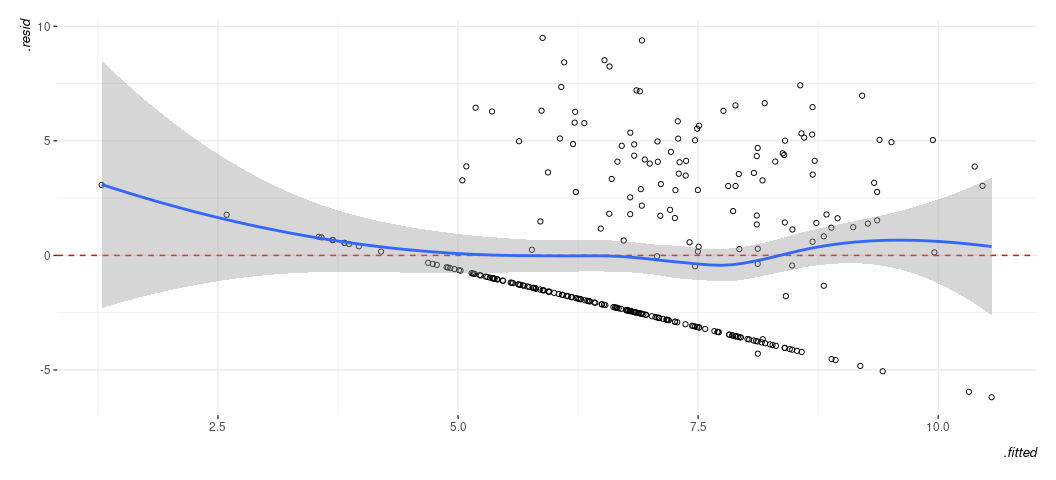
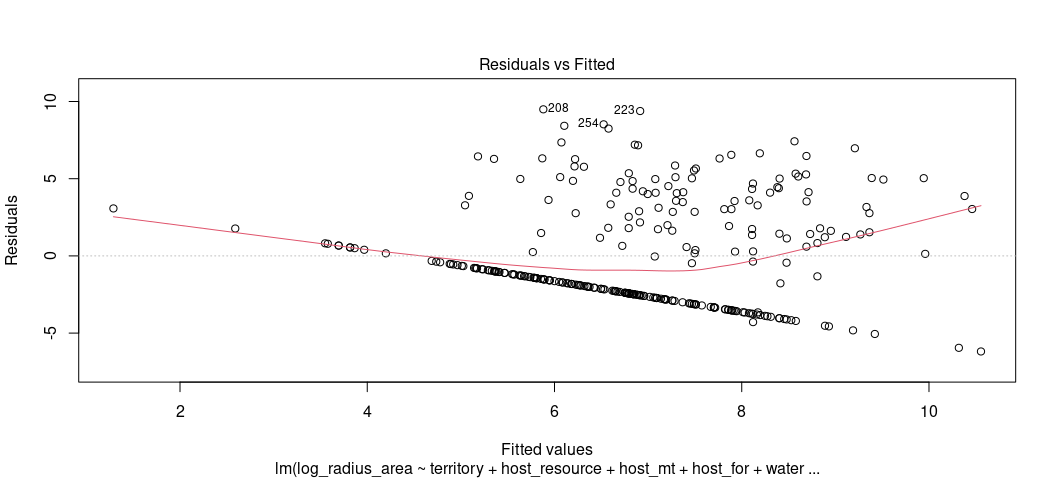
add

diff --git a/scripts/linear-models-again.md b/scripts/linear-models-again.md
@@ -31,15 +31,14 @@ output:
 library(tidyverse)
 #> ── Attaching core tidyverse packages ──────────────────────── tidyverse 2.0.0 ──
 #> ✔ dplyr     1.1.4     ✔ readr     2.1.4
-#> ✔ forcats   1.0.0     ✔ stringr   1.5.0
-#> ✔ ggplot2   4.0.0     ✔ tibble    3.3.0
-#> ✔ lubridate 1.9.4     ✔ tidyr     1.3.0
+#> ✔ forcats   1.0.1     ✔ stringr   1.6.0
+#> ✔ ggplot2   4.0.0     ✔ tibble    3.3.1
+#> ✔ lubridate 1.9.2     ✔ tidyr     1.3.0
 #> ✔ purrr     1.1.0     
 #> ── Conflicts ────────────────────────────────────────── tidyverse_conflicts() ──
 #> ✖ dplyr::filter() masks stats::filter()
 #> ✖ dplyr::lag()    masks stats::lag()
 #> ℹ Use the conflicted package (<http://conflicted.r-lib.org/>) to force all conflicts to become errors
-library(stevethemes)
 library(stevemisc)
 #> 
 #> Attaching package: 'stevemisc'
@@ -51,6 +50,9 @@ library(stevemisc)
 #> The following object is masked from 'package:dplyr':
 #> 
 #>     tbl_df
+library(stevethemes) # Optional; gonna use it anyway
+
+theme_set(theme_steve(style = 'generic'))
 ```
 
 ## Load the data
@@ -270,6 +272,17 @@ exp(0.025871)-1       # relative change
 #> [1] 2.5871
 ```
 
+Here’s where the territory coefficient’s larger value misleads a bit.
+
+``` r
+exp(1.624430)-1       # relative change
+#> [1] 4.075525
+(exp(1.624430)-1)*100 # percentage change
+#> [1] 407.5525
+1.624430*100          # percentage change approximation
+#> [1] 162.443
+```
+
 If this is a bit much for you at this level, that’s cool too. You can
 just note what’s significant and in what direction and say something
 like “a one-unit change in the percentage of the territory that is
@@ -294,7 +307,7 @@ linear model diagnostic. It’s where you should start.
 plot(M1, which = 1)
 ```
 
-![](figs/linear-models-again/unnamed-chunk-10-1.png)<!-- -->
+![](figs/linear-models-again/unnamed-chunk-11-1.png)<!-- -->
 
 Oh boy… that’s not good. Let’s pretty it up bit, just for presentation
 and added exposure to the `augment()` function in `{broom}`.
@@ -303,13 +316,12 @@ and added exposure to the `augment()` function in `{broom}`.
 broom::augment(M1) %>%
   ggplot(.,aes(.fitted, .resid)) +
   geom_point(pch = 21) +
-  theme_steve(style='generic') +
   geom_hline(yintercept = 0, linetype="dashed", color="red") +
   geom_smooth(method = "loess")
 #> `geom_smooth()` using formula = 'y ~ x'
 ```
 
-![](figs/linear-models-again/unnamed-chunk-11-1.png)<!-- -->
+![](figs/linear-models-again/unnamed-chunk-12-1.png)<!-- -->
 
 Remember what you should want to see in a fitted-residual plot. Know
 this isn’t it. That said, here’s what you can discern this is telling
@@ -323,12 +335,11 @@ residual then falls on a line like this. Let’s see this for ourselves.
 
 ``` r
 Data %>% ggplot(.,aes(log_radius_area)) + 
-  geom_histogram() +
-  theme_steve(style='generic')
+  geom_histogram() 
 #> `stat_bin()` using `bins = 30`. Pick better value `binwidth`.
 ```
 
-![](figs/linear-models-again/unnamed-chunk-12-1.png)<!-- -->
+![](figs/linear-models-again/unnamed-chunk-13-1.png)<!-- -->
 
 ``` r
 
@@ -388,15 +399,14 @@ third is that we 100% won’t know where until we looked at something a
 bit more informative. `linloess_plot()` in `{stevemisc}` will do this.
 
 ``` r
-linloess_plot(M1, pch=21) +
-  theme_steve(style='generic')
+linloess_plot(M1, pch=21)
 #> Warning: attributes are not identical across measure variables; they will be
 #> dropped
 #> `geom_smooth()` using formula = 'y ~ x'
 #> `geom_smooth()` using formula = 'y ~ x'
 ```
 
-![](figs/linear-models-again/unnamed-chunk-13-1.png)<!-- -->
+![](figs/linear-models-again/unnamed-chunk-14-1.png)<!-- -->
 
 Binary IVs will never be the issue here. It’s the “vital border”
 variable that looks like it has some weirdness. Based on what I remember
@@ -447,14 +457,14 @@ reasonably fit the data.
 plot(M1, which=2)
 ```
 
-![](figs/linear-models-again/unnamed-chunk-15-1.png)<!-- -->
+![](figs/linear-models-again/unnamed-chunk-16-1.png)<!-- -->
 
 ``` r
 
-rd_plot(M1) + theme_steve(style='generic')
+rd_plot(M1) 
 ```
 
-![](figs/linear-models-again/unnamed-chunk-15-2.png)<!-- -->
+![](figs/linear-models-again/unnamed-chunk-16-2.png)<!-- -->
 
 Again, a plot like this is wanting to alert us to the “hurdle” component
 of the DV. Rather than have normally distributed residuals, or something

diff --git a/scripts/correlation-pearson-r.md b/scripts/correlation-pearson-r.md
@@ -33,11 +33,11 @@ output:
 ``` r
 library(tidyverse)
 #> ── Attaching core tidyverse packages ──────────────────────── tidyverse 2.0.0 ──
-#> ✔ dplyr     1.1.4     ✔ readr     2.1.4
-#> ✔ forcats   1.0.0     ✔ stringr   1.5.0
-#> ✔ ggplot2   4.0.0     ✔ tibble    3.3.0
-#> ✔ lubridate 1.9.4     ✔ tidyr     1.3.0
-#> ✔ purrr     1.1.0     
+#> ✔ dplyr     1.2.0     ✔ readr     2.2.0
+#> ✔ forcats   1.0.1     ✔ stringr   1.6.0
+#> ✔ ggplot2   4.0.2     ✔ tibble    3.3.1
+#> ✔ lubridate 1.9.5     ✔ tidyr     1.3.2
+#> ✔ purrr     1.2.1     
 #> ── Conflicts ────────────────────────────────────────── tidyverse_conflicts() ──
 #> ✖ dplyr::filter() masks stats::filter()
 #> ✖ dplyr::lag()    masks stats::lag()
@@ -529,14 +529,14 @@ democracy and a horizontal line at the mean of per capita income to
 gather more information about our data.
 
 ``` r
-mean_gdppc <- mean(Data$gdppc)
-mean_demest <- mean(Data$demest)
+avggdpc <- mean(Data$gdppc)
+avgdemest <- mean(Data$demest)
 
 ggplot(Data, aes(demest, gdppc)) +
   geom_point() +
   geom_smooth(method ='lm') +
-  geom_vline(xintercept = mean_demest, linetype = 'dashed') +
-  geom_hline(yintercept = mean_gdppc, linetype = 'dashed') +
+  geom_vline(xintercept = avgdemest, linetype = 'dashed') +
+  geom_hline(yintercept = avggdpc, linetype = 'dashed') +
   scale_y_continuous(labels = scales::dollar_format())
 #> `geom_smooth()` using formula = 'y ~ x'
 ```
